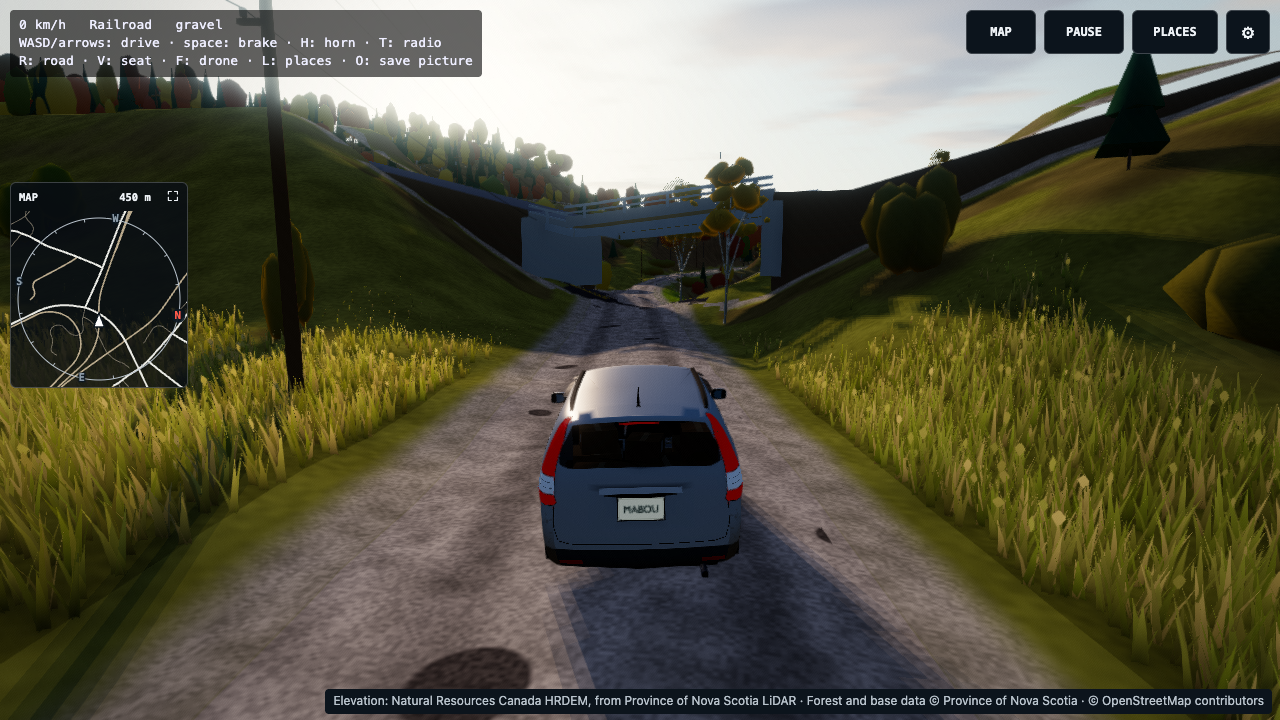
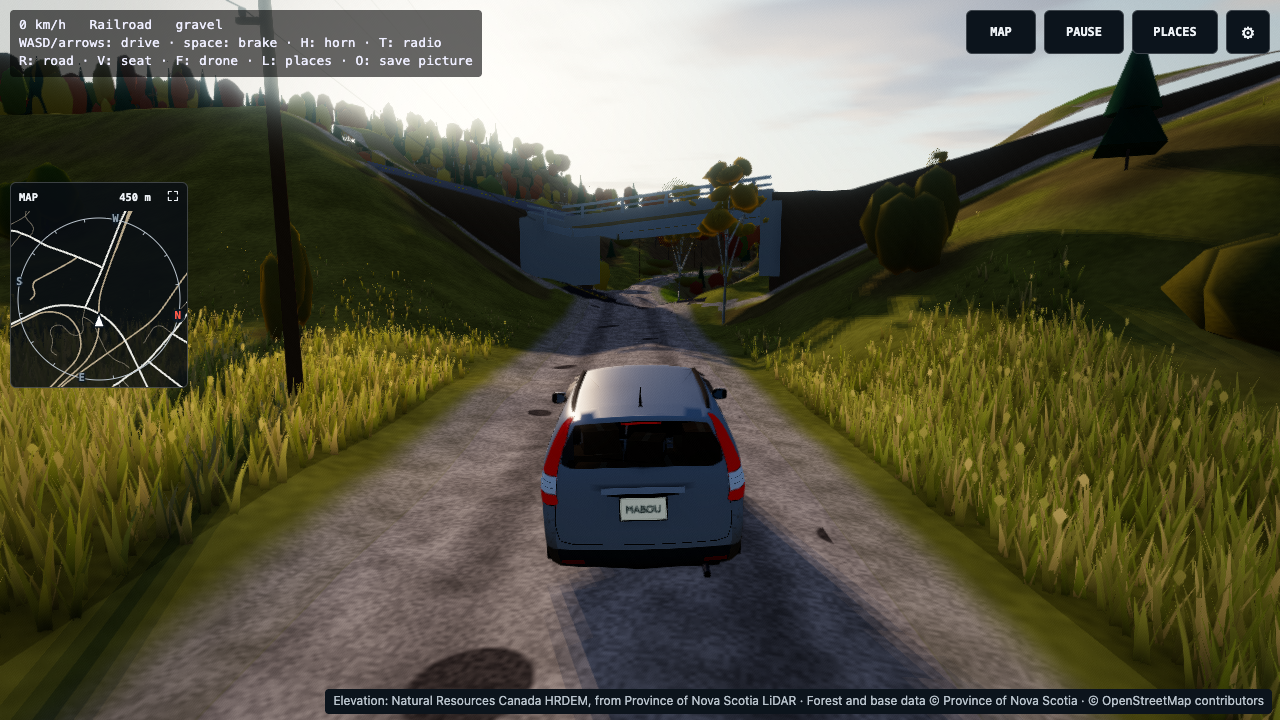
Address Sol review: overpass elevation HUD, bridge double-yellow, rail timber surface

diff --git a/web/src/modern-bridges.ts b/web/src/modern-bridges.ts
@@ -229,6 +229,8 @@ export class ModernBridges {
   /** Road ids whose spans are left out of the drawn mesh (the canal swing span while a vessel passes). */
   private readonly hidden=new Set<number>();
   private readonly driving={kind:9,halfWidth:6,washboard:false,road:true,roadKind:1};
+  private readonly deckRoadResult:{name:string|null;hasOverhead:boolean}={name:null,hasOverhead:false};
+  private readonly overheadSpans:Span[]=[];
   private sampling=false;
   private bakedLand:Float64Array|null=null;
   private bakedLandAt=0;
@@ -936,10 +938,36 @@ export class ModernBridges {
     if(this.isSpan(x,z,-1)||this.query(x,z,true,false,undefined,false,2,false)!==null)return null;
     const h=this.query(x,z,true,false,undefined,false,1,false);return h===null?null:h-.03;
   }
+  /** Zero-allocation grade-separated road lookup using already-built deck triangles. */
+  deckRoadAt(x:number,z:number,y:number):{name:string|null;hasOverhead:boolean} {
+    this.overheadSpans.length=0;
+    this.deckRoadResult.name=null;this.deckRoadResult.hasOverhead=false;
+    if(this.sampling||this.terrain.cartRoads)return this.deckRoadResult;
+    const list=this.cells.get(key(x,z,CELL));if(!list)return this.deckRoadResult;
+    let onName:string|null=null,onDist=Infinity;
+    for(let i=0;i<list.length;i++){
+      const r=this.spans[list[i]];if(!r.triangles)continue;
+      const h=this.ownHeight(r,x,z);if(h===null)continue;
+      if(deckWithinReach(h,y)&&y>=h-1.0){
+        const d=Math.abs(y-h),n=r.road.name||r.start?.road.name||r.end?.road.name||null;
+        if(n&&d<onDist){onDist=d;onName=n;}
+      }else if(y<h-1.5)this.overheadSpans.push(r);
+    }
+    this.deckRoadResult.name=onName;
+    this.deckRoadResult.hasOverhead=this.overheadSpans.length>0;
+    return this.deckRoadResult;
+  }
+  isOverheadRoad(roadId:number):boolean {
+    for(let i=0;i<this.overheadSpans.length;i++){
+      const r=this.overheadSpans[i];
+      if(r.members.has(roadId)||r.road.id===roadId||r.road.sourceRoad===roadId||r.start?.road.id===roadId||r.end?.road.id===roadId)return true;
+    }
+    return false;
+  }
   private applyDriving(r:Span,part:number):void {
     const deck=part===1,road=(part===0?r.start?.road:part===2?r.end?.road:r.road)??r.road;
     const wash=!!(r.road.washboard||road.washboard);
-    this.driving.kind=wash?road.kind:deck?(r.timber?5:9):road.kind;
+    this.driving.kind=wash?road.kind:deck?(r.timber?(r.road.name==='Railroad'?road.kind:5):9):road.kind;
     this.driving.halfWidth=deck?r.width:r.narrowRail?1.25:road.halfWidth;this.driving.washboard=wash;this.driving.roadKind=road.kind;
   }
   private ownHeight(r:Span,x:number,z:number):number|null {
@@ -1218,10 +1246,12 @@ export class ModernBridges {
     approach(()=>{for(let i=0;i<rows;i++){
       const s0=along(i),s1=along(i+1);
       if(s0>=0&&s1<=r.length)continue;
-      const road=(s0<0?r.start?.road:r.end?.road)??r.road;if(road.kind!==1)continue;
+      const road=(s0<0?r.start?.road:r.end?.road)??r.road;
+      const doubleYellow=road.kind===1||(road.kind===2&&road.pavement==='double-yellow');
+      if(!doubleYellow)continue;
       const a=this.at(r,s0),b=this.at(r,s1),ya=this.top(r,s0,a.x,a.z)+.008,yb=this.top(r,s1,b.x,b.z)+.008;
       const stripe=(u:number,width:number,color:RGB)=>m.quad([[a.x+a.nx*(u-width/2),ya,a.z+a.nz*(u-width/2)],[b.x+b.nx*(u-width/2),yb,b.z+b.nz*(u-width/2)],[b.x+b.nx*(u+width/2),yb,b.z+b.nz*(u+width/2)],[a.x+a.nx*(u+width/2),ya,a.z+a.nz*(u+width/2)]],color);
-      for(const side of[-1,1]){stripe(side*.115,.12,[.55,.4,.04]);stripe(side*(road.halfWidth-.27),.12,[.55,.55,.52]);}
+      for(const side of[-1,1]){stripe(side*.115,.12,[.55,.4,.04]);if(road.kind===1)stripe(side*(road.halfWidth-.27),.12,[.55,.55,.52]);}
     }});
     // Approach fill closes the road edge down to the original soil; it is not a deck-coloured slab.
     approach(()=>{for(let i=0;i<rows;i++){
@@ -1257,7 +1287,8 @@ export class ModernBridges {
         if((this.land(p.x,p.z)??-Infinity)<y-.8)m.box(side*r.width*.72,-.8,0,.28,.5,run*stretch+.03,r.timber?wood:steel);
         m.at(p.x,y,p.z,p.yaw);m.box(side*(r.width+.08),edge+.45,0,.14,.9,.14,rail);m.at(p.x,y,p.z,p.yaw,pitch);
       }
-      if(!r.timber&&(r.start?.road.kind??r.road.kind)===1&&r.road.halfWidth>=2.8)for(const side of[-1,1])m.box(side*.115,.005,0,.12,.008,run*stretch+.01,[.55,.4,.04]);
+      const deckYellow=(r.start?.road.kind??r.road.kind)===1||r.road.pavement==='double-yellow'||r.start?.road.pavement==='double-yellow'||r.end?.road.pavement==='double-yellow';
+      if(!r.timber&&deckYellow&&r.road.halfWidth>=2.8)for(const side of[-1,1])m.box(side*.115,.005,0,.12,.008,run*stretch+.01,[.55,.4,.04]);
     }
     const support=(s:number,abutment:boolean)=>{const p=this.at(r,s),y=this.top(r,s,p.x,p.z),ground=this.land(p.x,p.z)??this.terrain.seaLevel-4,bottom=Math.min(y-.9,ground-.25),h=y-.45-bottom;
       m.at(p.x,bottom,p.z,p.yaw);

diff --git a/web/src/roads.ts b/web/src/roads.ts
@@ -18,6 +18,7 @@ export interface Road {
   halfWidth: number;
   bridge: boolean;
   washboard?: boolean;
+  pavement?: 'double-yellow' | 'worn' | 'gravel';
   pts: [number, number][];   // world x, z (converted on load)
 }
 
@@ -142,9 +143,16 @@ export class Roads {
     return this.query(this.cells, x, z, reach, filter);
   }
 
-  /** Name the road under the vehicle, with a metre of tolerance at the edge. */
-  nameAt(x: number, z: number): string | null {
-    return this.query(this.cells, x, z, this.maxHalfWidth + 1, namedRoad, 1)?.road.name ?? null;
+  /** Name the road under the vehicle, with a metre of tolerance at the edge.
+   * When `y` is given near a grade-separated modern bridge, the deck elevation decides upper vs lower road. */
+  nameAt(x: number, z: number, y?: number): string | null {
+    let skipOverhead = false;
+    if (y !== undefined && this.modern) {
+      const deck = this.modern.deckRoadAt(x, z, y);
+      if (deck.name !== null) return deck.name;
+      skipOverhead = deck.hasOverhead;
+    }
+    return this.query(this.cells, x, z, this.maxHalfWidth + 1, namedRoad, 1, skipOverhead)?.road.name ?? null;
   }
 
   /** Cold placement query: visit every nearby segment once, including tracks, trails and driveways.
@@ -160,7 +168,7 @@ export class Roads {
         }
   }
 
-  private query(cells: Map<number, [number, number][]>, x: number, z: number, reach: number, filter?: (r: Road) => boolean, edgeTolerance?: number): RoadHit | null {
+  private query(cells: Map<number, [number, number][]>, x: number, z: number, reach: number, filter?: (r: Road) => boolean, edgeTolerance?: number, skipOverhead = false): RoadHit | null {
     let best: RoadHit | null = null;
     const era=this.terrain.cartRoads&&cells===this.bridgeCells;
     let candidates=0,bestSquared=144,bestRI=Infinity,bestOutside=Infinity;
@@ -171,6 +179,7 @@ export class Roads {
       for (const [ri, s] of cells.get(this.cellKey(cx, cz)) ?? NO_SEGMENTS) {
         const road = this.roads[ri];
         if (filter && !filter(road)) continue;
+        if (skipOverhead && this.modern?.isOverheadRoad(road.id)) continue;
         // A segment may occupy several neighbouring cells; sample it once in an era query.
         const record=era?this.bridgeRecords.get(road.id):undefined;
         if(record){if(record.seen[s]===this.bridgeQuery)continue;record.seen[s]=this.bridgeQuery;candidates++;}

diff --git a/web/src/bike-ride.ts b/web/src/bike-ride.ts
@@ -641,6 +641,6 @@ export class BikeRide implements Ride {
     root.rotation.set(this.pitch + attitude, -this.heading + this.whip, this.roll, 'YXZ');
     this.car.pose({ steer: this.steerAngle, spin: this.spin, front: this.frontTravel, rear: this.rearTravel, stand: this.stand,
       foot: !this.airborne && Math.abs(this.speed) < 1 ? 1 : 0, dive: this.frontTravel, crash: this.crashTime, ground: this.y, pitch: this.pitch, roll: this.roll });
-    if (dt > 0) this.roadName = this.roads.nameAt?.(this.x, this.z) ?? null;
+    if (dt > 0) this.roadName = this.roads.nameAt?.(this.x, this.z, this.y) ?? null;
   }
 }

diff --git a/web/src/bridge-decks-assets.ts b/web/src/bridge-decks-assets.ts
@@ -23,8 +23,8 @@ export const BRIDGE_DECK_ASSETS:Readonly<Record<string,BridgeDeckAsset|undefined
   },
   "pointtupper": {
     "file": "bridge-decks.bin",
-    "bytes": 128616,
[1 lines of base64/hex data omitted]
+    "bytes": 128624,
[1 lines of base64/hex data omitted]
   },
   "cansocauseway": {
     "file": "bridge-decks.bin",

diff --git a/web/src/vehicle.ts b/web/src/vehicle.ts
@@ -1125,7 +1125,7 @@ export class Vehicle {
       c.setTravel(this.suspension[0], this.suspension[1], this.suspension[2], this.suspension[3]);
     }
     c.animate?.(dt, this.speed, this.hoofGround, this.terrain.contactRevision);
-    if (dt > 0) this.roadName = this.roads.nameAt?.(this.x, this.z) ?? null;
+    if (dt > 0) this.roadName = this.roads.nameAt?.(this.x, this.z, this.y) ?? null;
   }
 }
 

diff --git a/tools/paved-open-land-check.py b/tools/paved-open-land-check.py
@@ -192,6 +192,21 @@ def fixture():
         try: patch.install(tmp/'delta', baked, receipt=receipt)
         except ValueError as e: assert 'Live file differs' in str(e)
         else: raise AssertionError('install replaced a different live file')
+        # Industrial Park Road width delta: stale_inputs accepts both a direct match (receipt baked on widened roads)
+        # and the mapped before-hash (receipt baked before the width delta), while rejecting an unknown hash.
+        ind = json.loads(patch.INDUSTRIAL_WIDTH.read_text())
+        ind_roads = next(f for f in ind['files'] if f['file'] == 'roads.json')
+        pt_dir = baked/'areas/pointtupper'; pt_dir.mkdir(parents=True, exist_ok=True)
+        # Write a payload whose hash is neither before nor after -> rejected.
+        (pt_dir/'roads.json').write_bytes(b'{"roads":[]}\n')
+        assert patch.stale_inputs(dict(areas=[dict(inputs=[dict(file='areas/pointtupper/roads.json', sha256=ind_roads['before'])])]), baked) == ['areas/pointtupper/roads.json']
+        # Direct match on after-hash receipt passes without forcing remap to before-hash.
+        after_bytes = b'{"roads":[{"id":107}]}\n'
+        (pt_dir/'roads.json').write_bytes(after_bytes)
+        assert patch.stale_inputs(dict(areas=[dict(inputs=[dict(file='areas/pointtupper/roads.json', sha256=sha(after_bytes))])]), baked) == []
+        # Mapped before-hash passes when live hash equals ind_roads['sha256'].
+        assert patch._industrial_width_stands_for('areas/pointtupper/roads.json', ind_roads['sha256']) == ind_roads['before']
+        assert patch._industrial_width_stands_for('areas/pointtupper/roads.json', '0'*64) == '0'*64
         for allowed in [('before', None), ('after', None), ('after', 'after')]: expectation(*allowed)
         for invalid in [('before', 'after'), ('after', 'before')]:
             try: expectation(*invalid)

diff --git a/tools/paved-open/patch.py b/tools/paved-open/patch.py
@@ -81,8 +81,9 @@ def stale_inputs(report, baked):
             path = Path(baked)/entry['file']
             if not path.is_file(): stale.append(entry['file']); continue
             data = path.read_bytes()
-            value = lattice(data) if entry.get('lattice') else _industrial_width_stands_for(entry['file'], sha(data))
-            if value != entry['sha256']: stale.append(entry['file'])
+            digest = lattice(data) if entry.get('lattice') else sha(data)
+            if digest != entry['sha256'] and (entry.get('lattice') or _industrial_width_stands_for(entry['file'], digest) != entry['sha256']):
+                stale.append(entry['file'])
     return sorted(set(stale))
 
 

diff --git a/tools/industrial-surface/README.md b/tools/industrial-surface/README.md
@@ -116,8 +116,14 @@ Provincial road segments (`BASE_NSTDB_10k_Roads_WM84__05_bridges.geojson`) confi
 chained directly onto `industrial-hashes.json`. `web/src/bridge-crossings.json`
 also updates road 107's overpass over Railroad 216 (`osm/way/169338040`, span
 `-100084`) from `kind: 4, halfWidth: 1.5` to `kind: 2, halfWidth: 3.6` so it
-renders as a concrete/asphalt highway overpass instead of a 3 m timber bridge,
-with Point Tupper's `bridge-decks.bin` rebaked to match (`web/src/bridge-decks-assets.ts`).
+renders as a concrete/asphalt highway overpass with continuous double-yellow
+centre lines across its deck and approaches, instead of a 3 m timber bridge.
+Point Tupper's `bridge-decks.bin` is rebaked to match
+(`web/src/bridge-decks-assets.ts`, 44th file of the Point Tupper install:
[1 lines of base64/hex data omitted]
+126,000 bytes; after
[1 lines of base64/hex data omitted]
+128,624 bytes).
 
 Re-baking all 117 Point Tupper paved lot tiles and both stockpiles on the
 widened `roads.json` produces byte-for-byte identical `.r8` tiles and
@@ -137,12 +143,17 @@ Tupper line is an active freight railway serving Point Tupper industries (the
 section east of Point Tupper toward Sydney has been dormant since 2015, not
 converted to a rail trail). The Ceilidh Coastal Trail (`kind=5`) is 5.5 km
 northwest near Port Hastings. In the game, Point Tupper's railway keeps its
-`Railroad` road name and `gravel` (ballast) surface on the HUD, never `rail trail`.
+`Railroad` road name and `gravel` (ballast) surface on the HUD (including on
+timber railway bridges), never `rail trail`.
 
 ### Order with #1341 delta 2
 
-This delta installs road 107's 7.2 m width, double-yellow centre paint and
-overpass update on the current Point Tupper ground, ahead of `#1341` delta 2.
-When `#1341` delta 2 shapes the Point Tupper road and railway ground (embankments
-and steep rail notches), it should keep road 107 at `kind=2`, `halfWidth=3.6`,
+This finisher task (`grok-bots#1410`) installs road 107's 7.2 m width,
+double-yellow centre paint and overpass update (44 files: the 43 files of
+`width-hashes.json` plus `bridge-decks.bin`, with rollback backup) on the
+current Point Tupper ground ahead of `#1341` delta 2, superseding the builder's
+earlier combined-bake proposal on `#1036` comment `7147815846` because `#1341`
+delta 2 is not yet underway. When `#1341` delta 2 shapes Point Tupper's road
+and railway ground (embankments, steep rail notches and road-side utility
+poles), it should keep road 107 at `kind=2`, `halfWidth=3.6`,
 `pavement='double-yellow'` and refresh the Point Tupper land receipts once.
